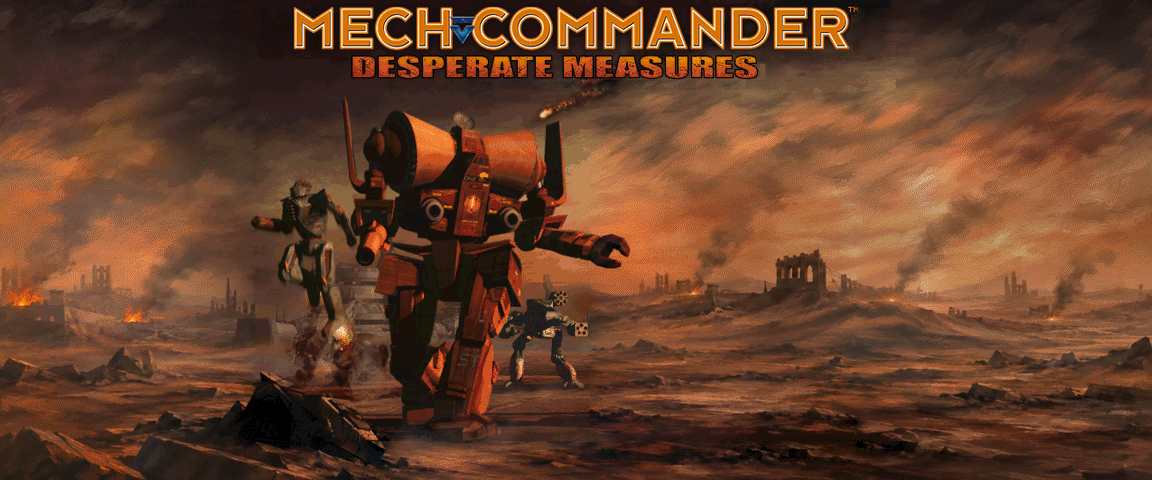
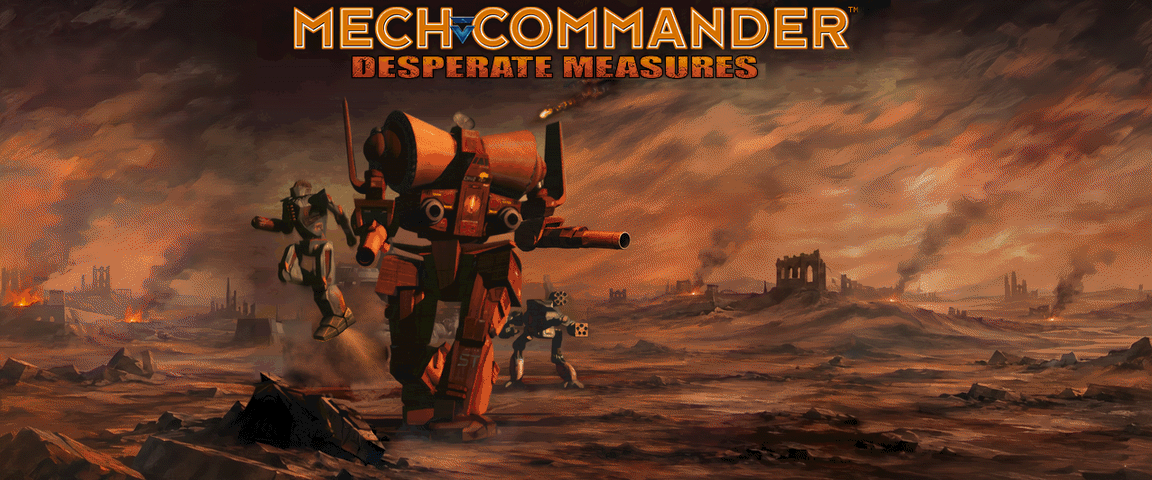
Menus: the main menu's painting remade
The front mech's arm ends in a cannon, the jumping mech's jet is a plume under
its feet, and the strip right of the front mech is painted again (the light
rectangle where the 1998 window's edge was is gone). The logo's own pixels are
put back over it. The 1998 size is the same picture in the 1998 painting's
colours, with its own logo and no HD mark. Same files, names and sizes.

Every frame drawn over the painting moves: 78 hashes recorded again (INTERNET
and LAN, the main menu and its reports questions, the saves, the loading
screen, a launcher's join).

diff --git a/src/apps/MCRedux/tests/MainMenuTests.cpp b/src/apps/MCRedux/tests/MainMenuTests.cpp
@@ -309,13 +309,13 @@ TEST_CASE_ISOLATED("game: the main menu and its submenus draw the same on every 
     CHECK_EQ(Words(MCMainPanel::Main, "version"),
              std::format("Redux HD {}", ReleaseOf(MCTestUpdater::FakeRunningVersion)));
     CHECK_EQ(Words(MCMainPanel::Main, "update"), std::format("Update to {}", ReleaseOf(NewVersion)));
-    CheckFrames(*display, "main_menu", {0x2f9f433c, 0xb060ad9f, 0x4b951c48});
+    CheckFrames(*display, "main_menu", {0xa8be44f7, 0x72f137f8, 0x9ce404c6});
 
     // A save: CONTINUE, naming where it opens.
     SaveFirstMission();
     CHECK_EQ(Panel(MCMainPanel::Main).ContinueLine(), "Original campaign · Operation 1, mission 1");
     CHECK(Visible(MCMainPanel::Main, "continue"));
-    CheckFrames(*display, "main_menu_continue", {0xb1827f10, 0xdc85e89c, 0xfaa1f6fb});
+    CheckFrames(*display, "main_menu_continue", {0x69ff01cc, 0x9cf511a4, 0xabff78be});
 
     // Between missions (from the briefing): RETURN TO GAME leads, naming the mission; SAVE GAME after LOAD GAME.
     NewCampaign();
@@ -325,7 +325,7 @@ TEST_CASE_ISOLATED("game: the main menu and its submenus draw the same on every 
     CHECK(Visible(MCMainPanel::Main, "return"));
     CHECK(Visible(MCMainPanel::Main, "save"));
     CHECK(!Visible(MCMainPanel::Main, "continue"));
-    CheckFrames(*display, "main_menu_between", {0xba0012be, 0xce77fc27, 0xfec3d819});
+    CheckFrames(*display, "main_menu_between", {0x7f308a15, 0xef35f738, 0x51f86022});
     GlobalLog()->CurrentMission = -1;
     Panel(MCMainPanel::Main).Refresh();
     SettleWindow();
@@ -344,13 +344,13 @@ TEST_CASE_ISOLATED("game: the main menu and its submenus draw the same on every 
     CHECK_EQ(Words(MCMainPanel::Campaigns, "main"), "Continue");
     CHECK(Visible(MCMainPanel::Campaigns, "load"));
     CHECK(Visible(MCMainPanel::Campaigns, "new"));
-    CheckFrames(*display, "main_menu_campaigns", {0x0e5357f7, 0xf6d26c47, 0xb8d3338c});
+    CheckFrames(*display, "main_menu_campaigns", {0xdd3b3ec9, 0xf34ccd97, 0xea341e5c});
     Panel(MCMainPanel::Campaigns).Pick(1);
     SettleWindow();
     CHECK_EQ(Words(MCMainPanel::Campaigns, "main"), "New campaign");
     CHECK(!Visible(MCMainPanel::Campaigns, "load"));
     CHECK(!Visible(MCMainPanel::Campaigns, "new"));
-    CheckFrames(*display, "main_menu_campaigns_new", {0xef2b95a5, 0x900a9cd6, 0xe4b8b1d7});
+    CheckFrames(*display, "main_menu_campaigns_new", {0xa68633f4, 0xb27e5de1, 0xf3c38187});
     // BACK swaps the main menu in at once: no palette waits for the next frame's fade (which would darken the remade
     // menu to black for a second).
     REQUIRE(MCRemadeTest::Press(Panel(MCMainPanel::Campaigns), "back"));
@@ -370,7 +370,7 @@ TEST_CASE_ISOLATED("game: the main menu and its submenus draw the same on every 
     CHECK_EQ(solos[2].Title, "Destroy Garrison");
     CHECK_EQ(solos[2].Line, "Buy 200 tons with 185,000 RP");
     CHECK_EQ(Panel(MCMainPanel::Solo).Picked(), 0);
-    CheckFrames(*display, "main_menu_solo", {0xb775c398, 0x3d58aab0, 0x5ac1a9d6});
+    CheckFrames(*display, "main_menu_solo", {0x4a500a9a, 0xb99ff64c, 0x07a090d7});
     Press(SDL_SCANCODE_ESCAPE);
     REQUIRE(OnMainMenu());
 
@@ -381,7 +381,7 @@ TEST_CASE_ISOLATED("game: the main menu and its submenus draw the same on every 
     CHECK(Visible(MCMainPanel::Multiplayer, "internet"));
     CHECK(Visible(MCMainPanel::Multiplayer, "lan"));
     CHECK(!Visible(MCMainPanel::Multiplayer, "retry"));
-    CheckFrames(*display, "main_menu_multiplayer", {0x284ee93e, 0x42f947ab, 0x0eaa7a4e});
+    CheckFrames(*display, "main_menu_multiplayer", {0x97e86ef3, 0x9400803b, 0x6418bb75});
 
     // No network: it says so where INTERNET and LAN would be, RETRY under it.
     MCMainMenuModel::SetNetworkForTests(false);
@@ -392,7 +392,7 @@ TEST_CASE_ISOLATED("game: the main menu and its submenus draw the same on every 
     CHECK(!Visible(MCMainPanel::Multiplayer, "internet"));
     CHECK(!Visible(MCMainPanel::Multiplayer, "lan"));
     CHECK(Visible(MCMainPanel::Multiplayer, "retry"));
-    CheckFrames(*display, "main_menu_offline", {0x1866f4e3, 0x4bc747b2, 0x6cc46ca7});
+    CheckFrames(*display, "main_menu_offline", {0x5caff6ff, 0x62c907d4, 0x5a8dc489});
     MCMainMenuModel::SetNetworkForTests(std::nullopt);
     Click(MCMainPanel::Multiplayer, "back");
     REQUIRE(OnMainMenu());
@@ -400,7 +400,7 @@ TEST_CASE_ISOLATED("game: the main menu and its submenus draw the same on every 
     // QUIT's question over the main menu.
     Click(MCMainPanel::Main, "quit");
     REQUIRE(QuitQuestion() != nullptr);
-    CheckFrames(*display, "main_menu_quit", {0xaec673a3, 0x9cc00205, 0x857d2a2d});
+    CheckFrames(*display, "main_menu_quit", {0x68896c44, 0x3b8016c8, 0xed623400});
     Press(SDL_SCANCODE_ESCAPE);
     CHECK(QuitQuestion() == nullptr);
     CHECK(OnMainMenu());

diff --git a/src/apps/MCRedux/tests/InternetScreenTests.cpp b/src/apps/MCRedux/tests/InternetScreenTests.cpp
@@ -507,25 +507,25 @@ TEST_CASE_ISOLATED("game: INTERNET and LAN draw their frames, and lay out and re
     // No internet (before the list answers), then RETRY: the games, one picked.
     list.Drop("The Internet connection appears to be offline.");
     REQUIRE(SettleUntil([&] { return screen.Seen().Empty == "No internet connection."; }));
-    CheckMenusFrames("internet offline", {0xd0627c57, 0x0c4bfeb3, 0x0b3e3d20});
+    CheckMenusFrames("internet offline", {0x0c0cb768, 0x408a2c91, 0xf2c8e742});
     screen.PressRetry();
     REQUIRE(SettleUntil([&] { return list.Opened.size() == 2; }));
     list.Send(EveryKindOfGame(37, 12));
     REQUIRE(SettleUntil(CountsAre("37 online, 12 in games")));
     screen.PickKey("K7QF");
     Settle();
-    CheckMenusFrames("internet", {0x622e7ce4, 0x02d244a0, 0xd778e6ab});
+    CheckMenusFrames("internet", {0x1b520dad, 0xc4773a27, 0x11aa48eb});
 
     // From the keys: the focus's ring on the game picked.
     RealKey(SDL_SCANCODE_DOWN);
     RealKey(SDL_SCANCODE_UP);
     Settle();
-    CheckMenusFrames("internet keys", {0x8158c9e4, 0x8e0b1180, 0x623afe2b});
+    CheckMenusFrames("internet keys", {0xdd05b64d, 0x0a3678d7, 0x76b10f7b});
 
     screen.PressHost();
     Settle();
     REQUIRE(screen.HostWindow());
-    CheckMenusFrames("internet host", {0xd1231097, 0x13ad1c68, 0xa6fbbf42});
+    CheckMenusFrames("internet host", {0x7c99420f, 0xcbfa546a, 0x947bad02});
     screen.HostWindow()->Hide();
     Settle();
 
@@ -534,18 +534,18 @@ TEST_CASE_ISOLATED("game: INTERNET and LAN draw their frames, and lay out and re
     screen.PressJoin();
     Settle();
     REQUIRE_EQ(DialogHeading(), "Needs version 0.7.0");
-    CheckMenusFrames("internet join update", {0xe9b629b6, 0x81ef53bc, 0xe5945793});
+    CheckMenusFrames("internet join update", {0x1fb69175, 0x2c4e6ccb, 0x2adf23b2});
     PressDialogCancel();
 
     MCRmlDialogs::Message("No game has the code M3VD.");
     Settle();
-    CheckMenusFrames("internet message", {0x072194db, 0x8be6c178, 0x2d4d5699});
+    CheckMenusFrames("internet message", {0x60595515, 0xef64b63d, 0x76ba2604});
     PressDialogOk();
 
     // No games: "No open games." alone, the week's busiest hours heard but not drawn.
     list.Send(EmptyListingBusySaturday());
     REQUIRE(SettleUntil(CountsAre("3 online, 0 in games")));
-    CheckMenusFrames("internet empty", {0x4e99e1a7, 0x39062e24, 0x2c916e4b});
+    CheckMenusFrames("internet empty", {0xa2a14ab5, 0x8b7f89da, 0xcf88c496});
     CHECK_EQ(MenusProblems(), "");
 
     // LAN: no games on this network, then its HOST GAME's window.
@@ -558,11 +558,11 @@ TEST_CASE_ISOLATED("game: INTERNET and LAN draw their frames, and lay out and re
     MCGamesScreen& lan = *MCTestGuest::Games(MCGamesWhere::Lan);
     lan.SetPlayerName("Commander");
     REQUIRE(SettleUntil([&] { return lan.Seen().Empty == "No games on this network."; }));
-    CheckMenusFrames("lan", {0xe32d17ea, 0x6791dcba, 0xbcbfe80b});
+    CheckMenusFrames("lan", {0xa7bc2948, 0x5b0cb422, 0xa26f13b2});
     lan.PressHost();
     Settle();
     REQUIRE(lan.HostWindow());
-    CheckMenusFrames("lan host", {0x6ac200ab, 0x3a4b05c4, 0xdca239ba});
+    CheckMenusFrames("lan host", {0x12daea3c, 0x7c6849dd, 0x391dfa31});
 }
 
 /// <summary>

diff --git a/src/apps/MCRedux/tests/TelemetryTests.cpp b/src/apps/MCRedux/tests/TelemetryTests.cpp
@@ -1104,7 +1104,7 @@ TEST_CASE_ISOLATED("game: the main menu shows the reports' notice once, and its 
     // Port-only (stage 7): over the remade main menu, at the recorded frames' windows.
     MCScreenInput::RealMove(0, 0);
     MCMenusPictures::CheckWindowFrames(*MCInput::Display(), "main_menu_reports_notice",
-                                       {0xfa1efc70, 0x70293fd0, 0x252f245e}, SettleMenusWindow);
+                                       {0xd52d6d71, 0xf63dca6b, 0xc290581d}, SettleMenusWindow);
     REQUIRE(MCRemadeTest::Press(*notice, "yes"));
     MCTestGame::RunFrame(1.0f / 15.0f);
     CHECK(MCMainMenuScreens::MainOnTop());
@@ -1212,7 +1212,7 @@ TEST_CASE_ISOLATED("game: where the law wants consent the main menu asks, and CA
     // Port-only (stage 7): over the remade main menu, at the recorded frames' windows.
     MCScreenInput::RealMove(0, 0);
     MCMenusPictures::CheckWindowFrames(*MCInput::Display(), "main_menu_reports_question",
-                                       {0x64cb4c3a, 0x26198167, 0x9aad576e}, SettleMenusWindow);
+                                       {0x6d398925, 0xbdc1f914, 0xfe6f3792}, SettleMenusWindow);
     REQUIRE(MCRemadeTest::Press(*question, "no"));
     MCTestGame::RunFrame(1.0f / 15.0f);
     CHECK(MCRemadeTest::OnTop<MCRmlScreen>() != question);

diff --git a/src/apps/MCRedux/tests/CampaignMenuTests.cpp b/src/apps/MCRedux/tests/CampaignMenuTests.cpp
@@ -1286,7 +1286,7 @@ TEST_CASE_ISOLATED("game: the loading screen draws the same on every machine and
     REQUIRE(MCLoadingMenu::Shown());
     MCLoadingMenu::Progress(ShownPercent);
     CHECK_EQ(MCLoadingMenu::Screen()->get().Percent(), ShownPercent);
-    constexpr std::array<uint32_t, MCMenusPictures::FrameWindows.size()> Hashes = {0xeeb50e22, 0xd2457be9, 0xb00d4e12};
+    constexpr std::array<uint32_t, MCMenusPictures::FrameWindows.size()> Hashes = {0x692002bf, 0x1283f54a, 0x349b1b39};
 
     for (size_t i = 0; i < MCMenusPictures::FrameWindows.size(); i++)
     {
@@ -3207,7 +3207,7 @@ TEST_CASE_ISOLATED("game: a match's loading screen lights each game as it's in, 
     const std::shared_ptr<MCDisplay> display = MCInput::Display();
     REQUIRE(display != nullptr);
     REQUIRE(display->RendererKind() == MCRendererKind::Software);
-    DrawnEach(*display, clock, "loading_mp", {0x4c0de86d, 0x507ed6b9, 0x68d37528});
+    DrawnEach(*display, clock, "loading_mp", {0x924bad6a, 0x7710eee1, 0x5328283c});
     CheckLaidOut(menus, "loading mp");
     CHECK(MCLoadingMenu::Shown());
     CHECK(!MultiPlayer()->InMission);

diff --git a/src/apps/MCRedux/tests/SavesTests.cpp b/src/apps/MCRedux/tests/SavesTests.cpp
@@ -518,9 +518,9 @@ TEST_CASE_ISOLATED("game: LOAD GAME, its DELETE question and SAVE GAME draw the 
     };
 
     constexpr std::array<MCDrawn, 3> Drawn = {{
-        {"load", {0x7a39ac75, 0x60cb8fd0, 0x7ea16a57}},
-        {"delete", {0xec945728, 0x6146ccbe, 0x7ad4b467}},
-        {"save", {0xd5d58b2d, 0x4969b2ad, 0xd931d954}},
+        {"load", {0xe5aaf808, 0xc4be997c, 0x913d6904}},
+        {"delete", {0x67d165b2, 0x81302887, 0x2ac6be1b}},
+        {"save", {0xe8dcc1a2, 0x4e2b322f, 0x9fe7fa9a}},
     }};
 
     const auto drawEach = [&display](const MCDrawn& drawn)

diff --git a/src/apps/MCRedux/tests/ScreenFlowTests.cpp b/src/apps/MCRedux/tests/ScreenFlowTests.cpp
@@ -556,7 +556,7 @@ TEST_CASE_ISOLATED("screen flow: a launcher's join draws its frames, and its CAN
     MCTestGame::RunFrame(FrameSeconds);
     REQUIRE(LauncherScreenShown());
     REQUIRE(Asks("Joining Steel Rain..."));
-    CheckMenusFrames("launcher join", {0x538a4579, 0x5291b67a, 0x9fc55820});
+    CheckMenusFrames("launcher join", {0x66ea73af, 0xbc0c48af, 0x6816f35c});
 
     // A bare -join: the game's own words until the session found names the room.
     LobbyLaunchArgs.SessionName.clear();
